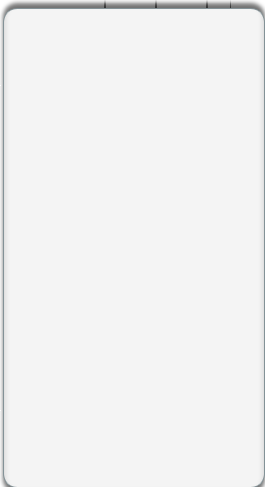
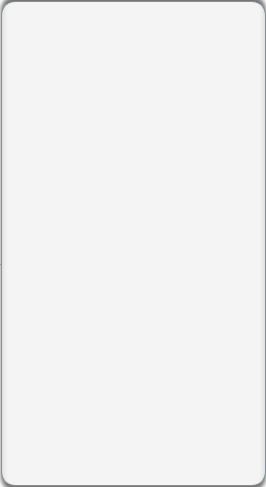
modify some backgroupd png
modify some backgroupd png

Changed region(s): [[0.0, 0.0, 1.0, 1.0]]

diff --git a/client/GroupGame/GroupGame/Classes/MainScene.cpp b/client/GroupGame/GroupGame/Classes/MainScene.cpp
@@ -91,13 +91,13 @@ void CMainScene::_AddTabButtons()
 {
 }
 
+static int g_off = 3;
 void CMainScene::_AddListView()
 {
-	int off = 2;
 	CCSprite *pSprite = CCSprite::create( "listbg.png" );
     CCAssert( pSprite, "GetListbg Failed" );
 	CCSize sz = pSprite->getContentSize();
-	pSprite->setPosition( ccp(sz.width/2, sz.height/2 + off) );
+	pSprite->setPosition( ccp(sz.width/2 + g_off, sz.height/2 + g_off) );
     addChild( pSprite, 0 );
 	
 	m_mainViewOffX = sz.width;
@@ -105,10 +105,9 @@ void CMainScene::_AddListView()
 
 void CMainScene::_AddMainView()
 {
-	int off = 2;
 	CCSprite *pSprite = CCSprite::create( "mainbg.png" );
     CCAssert( pSprite, "GetMainbg Failed" );
 	CCSize sz = pSprite->getContentSize();
-	pSprite->setPosition( ccp(sz.width/2 + m_mainViewOffX + off, sz.height/2 + off) );
+	pSprite->setPosition( ccp(sz.width/2 + m_mainViewOffX + 2*g_off, sz.height/2 + g_off) );
     addChild( pSprite, 0 );
 }
